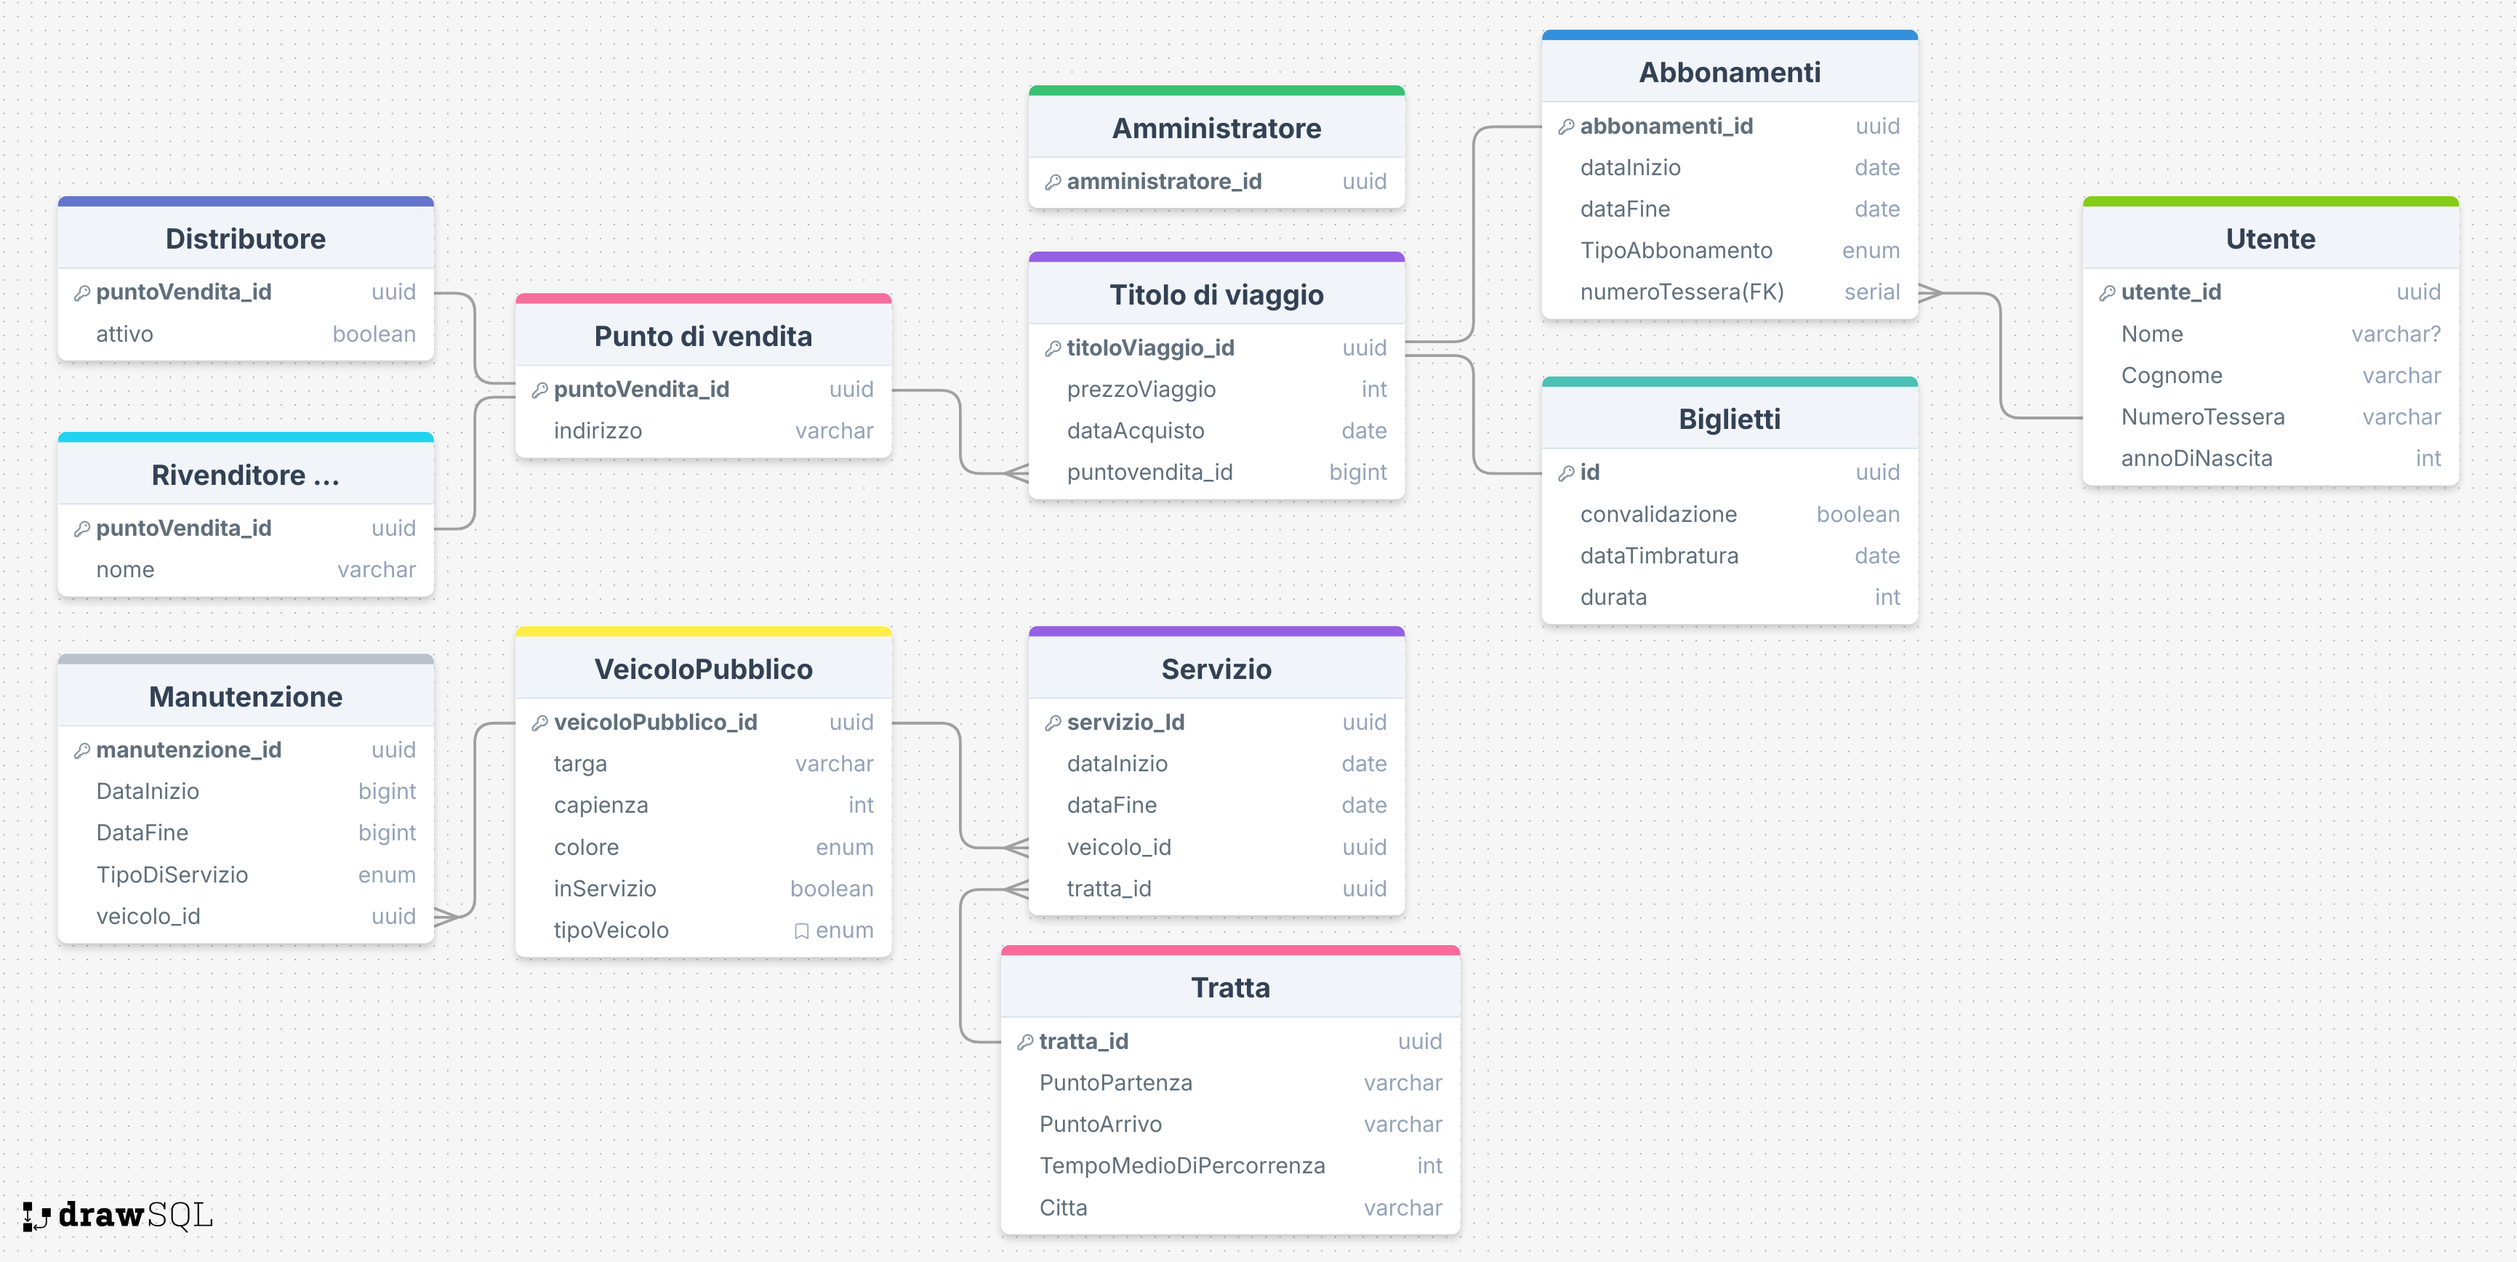
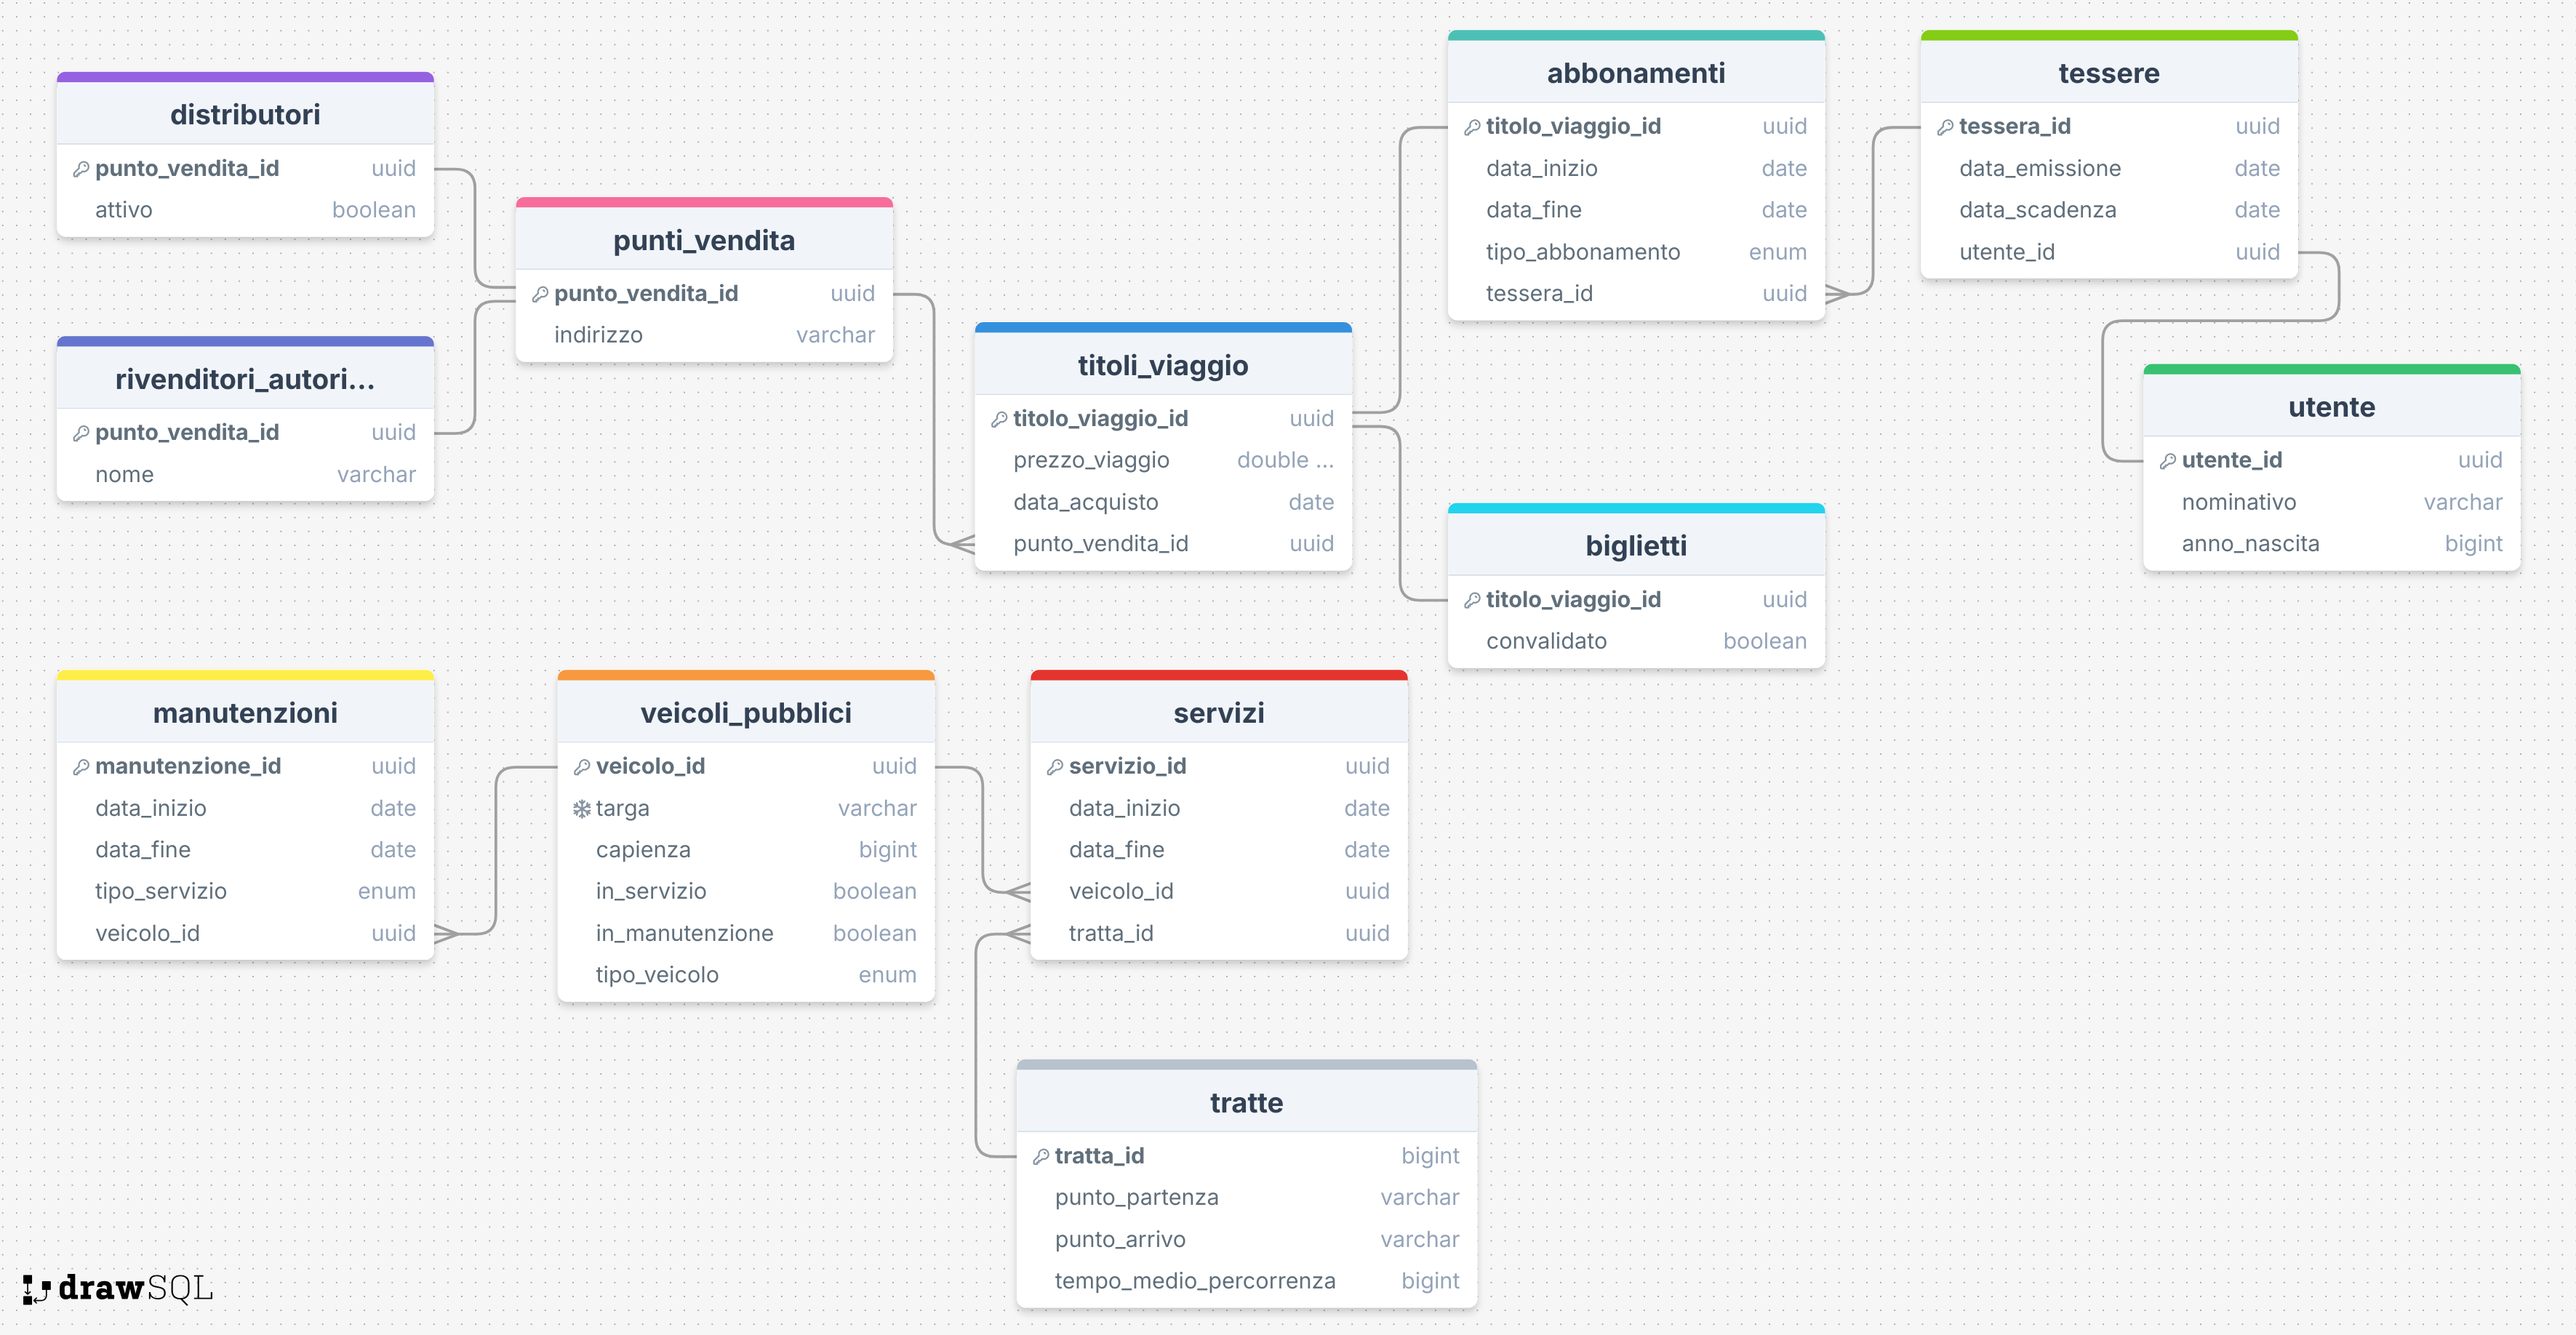
aggiunta classe tessera

diff --git a/src/main/java/CarmineGargiulo/entities/Abbonamento.java b/src/main/java/CarmineGargiulo/entities/Abbonamento.java
@@ -16,12 +16,12 @@ public class Abbonamento extends TitoloViaggio{
     @Enumerated(EnumType.STRING)
     private TipoAbbonamento tipoAbbonamento;
     @ManyToOne
-    @JoinColumn(name = "utente_id")
-    private Utente utente;
+    @JoinColumn(name = "tessera_id")
+    private Tessera tessera;
     public Abbonamento(){
 
     }
-    public Abbonamento(double prezzoViaggio, LocalDate dataAcquisto, PuntoVendita puntoVendita, LocalDate dataInizio, TipoAbbonamento tipoAbbonamento, Utente utente) {
+    public Abbonamento(double prezzoViaggio, LocalDate dataAcquisto, PuntoVendita puntoVendita, LocalDate dataInizio, TipoAbbonamento tipoAbbonamento, Tessera tessera) {
         super(prezzoViaggio, dataAcquisto, puntoVendita);
         this.dataInizio = dataInizio;
         if(tipoAbbonamento == TipoAbbonamento.SETTIMANALE) this.dataFine = dataInizio.plusDays(7);
@@ -29,7 +29,7 @@ public class Abbonamento extends TitoloViaggio{
         else if (tipoAbbonamento == TipoAbbonamento.SEMESTRALE) this.dataFine = dataInizio.plusMonths(6);
         else this.dataFine = dataInizio.plusYears(1);
         this.tipoAbbonamento = tipoAbbonamento;
-        this.utente = utente;
+        this.tessera = tessera;
     }
 
     public LocalDate getDataInizio() {
@@ -48,8 +48,8 @@ public class Abbonamento extends TitoloViaggio{
         this.tipoAbbonamento = tipoAbbonamento;
     }
 
-    public Utente getUtente() {
-        return utente;
+    public Tessera getTessera() {
+        return tessera;
     }
 
     @Override
@@ -58,6 +58,6 @@ public class Abbonamento extends TitoloViaggio{
                 ", dataInizio: " + dataInizio +
                 ", dataFine: " + dataFine +
                 ", tipoAbbonamento: " + tipoAbbonamento +
-                ", numero_tessera: " + utente.getNumeroTessera();
+                ", tessera: " + tessera;
     }
 }

diff --git a/src/main/java/CarmineGargiulo/entities/Tessera.java b/src/main/java/CarmineGargiulo/entities/Tessera.java
@@ -1,0 +1,70 @@
+package CarmineGargiulo.entities;
+
+import jakarta.persistence.*;
+
+import java.time.LocalDate;
+import java.util.List;
+import java.util.UUID;
+
+@Entity
+@Table(name = "tessere")
+public class Tessera {
+    @Id
+    @GeneratedValue
+    @Column(name = "tessera_id")
+    private UUID tesseraId;
+    @Column(name = "data_emissione")
+    private LocalDate dataEmissione;
+    @Column(name = "data_scadenza")
+    private LocalDate dataScadenza;
+    @OneToOne
+    @JoinColumn(name = "utente_id")
+    private Utente utente;
+    @OneToMany(mappedBy = "tessera")
+    private List<Abbonamento> abbonamentiList;
+
+    public Tessera() {
+    }
+
+    public Tessera(LocalDate dataEmissione, Utente utente) {
+        this.dataEmissione = dataEmissione;
+        this.utente = utente;
+        this.dataScadenza = dataEmissione.plusYears(1);
+    }
+
+    public UUID getTesseraId() {
+        return tesseraId;
+    }
+
+    public LocalDate getDataEmissione() {
+        return dataEmissione;
+    }
+
+    public void setDataEmissione(LocalDate dataEmissione) {
+        this.dataEmissione = dataEmissione;
+    }
+
+    public LocalDate getDataScadenza() {
+        return dataScadenza;
+    }
+
+    public void setDataScadenza(LocalDate dataScadenza) {
+        this.dataScadenza = dataScadenza;
+    }
+
+    public Utente getUtente() {
+        return utente;
+    }
+
+    public List<Abbonamento> getAbbonamentiList() {
+        return abbonamentiList;
+    }
+
+    @Override
+    public String toString() {
+        return "Tessera =  tesseraId: " + tesseraId +
+                ", dataEmissione: " + dataEmissione +
+                ", dataScadenza: " + dataScadenza +
+                ", utente: " + utente;
+    }
+}

diff --git a/src/main/java/CarmineGargiulo/entities/Biglietto.java b/src/main/java/CarmineGargiulo/entities/Biglietto.java
@@ -5,20 +5,15 @@ import jakarta.persistence.Entity;
 import jakarta.persistence.Table;
 
 import java.time.LocalDate;
-import java.time.LocalDateTime;
 
 @Entity
 @Table(name = "biglietti")
 public class Biglietto extends TitoloViaggio{
-    private boolean convalidato = false;
-    @Column(name = "data_convalidazione", nullable = false)
-    private LocalDateTime dataConvalidazione;
     @Column(nullable = false)
-    private int durata;
+    private boolean convalidato = false;
 
-    public Biglietto(double prezzoViaggio, LocalDate dataAcquisto, PuntoVendita puntoVendita, int durata) {
+    public Biglietto(double prezzoViaggio, LocalDate dataAcquisto, PuntoVendita puntoVendita) {
         super(prezzoViaggio, dataAcquisto, puntoVendita);
-        this.durata = durata;
     }
 
     public boolean isConvalidato() {
@@ -29,27 +24,9 @@ public class Biglietto extends TitoloViaggio{
         this.convalidato = convalidato;
     }
 
-    public LocalDateTime getDataConvalidazione() {
-        return dataConvalidazione;
-    }
-
-    public void setDataConvalidazione(LocalDateTime dataConvalidazione) {
-        this.dataConvalidazione = dataConvalidazione;
-    }
-
-    public int getDurata() {
-        return durata;
-    }
-
-    public void setDurata(int durata) {
-        this.durata = durata;
-    }
-
     @Override
     public String toString() {
         return "Biglietto = " + super.toString() +
-                ", convalidato: " + convalidato +
-                ", dataConvalidazione: " + dataConvalidazione +
-                ", durata: " + durata;
+                ", convalidato: " + convalidato;
     }
 }

diff --git a/src/main/java/CarmineGargiulo/entities/Utente.java b/src/main/java/CarmineGargiulo/entities/Utente.java
@@ -14,13 +14,14 @@ public class Utente {
     private UUID utenteId;
     @Column(nullable = false)
     private String nominativo;
-    @Column(nullable = false, unique = true, name = "numero_tessera")
-    private long numeroTessera;
     @Column(nullable = false, name = "anno_nascita")
     private int annoNascita;
-    private static int count = 0;
-    @OneToMany(mappedBy = "utente")
-    private List<Abbonamento> abbonamentiList;
+    @OneToOne(mappedBy = "utente")
+    private Tessera tessera;
+
+    public Tessera getTessera() {
+        return tessera;
+    }
 
     public Utente(){
 
@@ -28,8 +29,6 @@ public class Utente {
     public Utente(String nominativo, int annoNascita) {
         this.nominativo = nominativo;
         this.annoNascita = annoNascita;
-        this.numeroTessera = count;
-        count ++;
     }
 
     public UUID getUtenteId() {
@@ -44,10 +43,6 @@ public class Utente {
         this.nominativo = nominativo;
     }
 
-    public long getNumeroTessera() {
-        return numeroTessera;
-    }
-
     public int getAnnoNascita() {
         return annoNascita;
     }
@@ -56,15 +51,11 @@ public class Utente {
         this.annoNascita = annoNascita;
     }
 
-    public List<Abbonamento> getAbbonamentiList() {
-        return abbonamentiList;
-    }
 
     @Override
     public String toString() {
         return "Utente = utente_id: " + utenteId +
                 ", nominativo: " + nominativo +
-                ", numero_tessera: " + numeroTessera +
                 ", anno_nascita: " + annoNascita;
     }
 }
